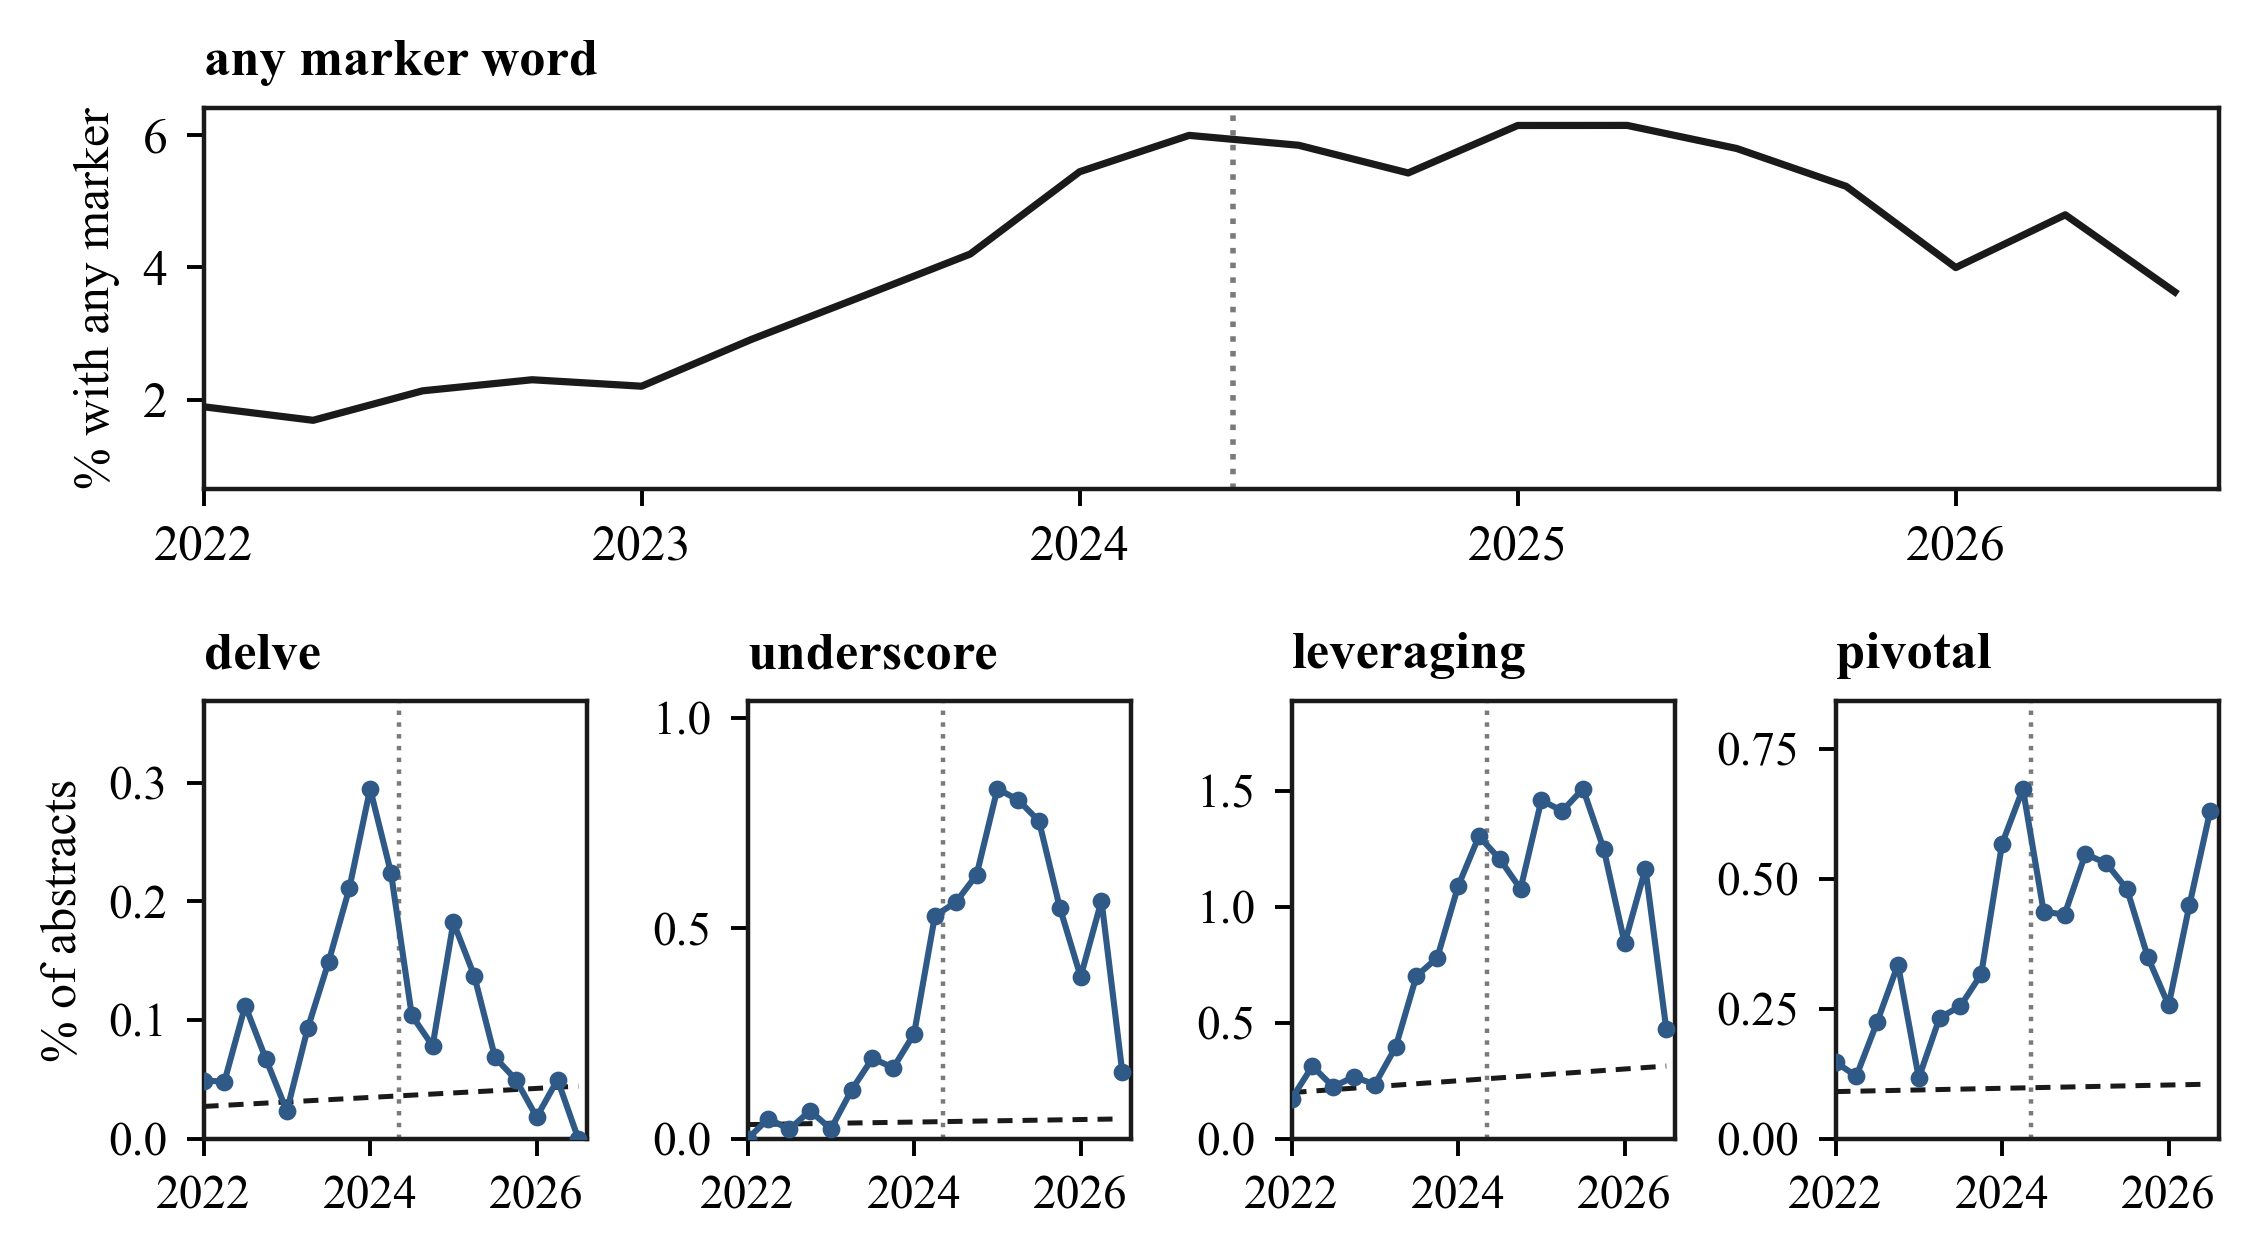
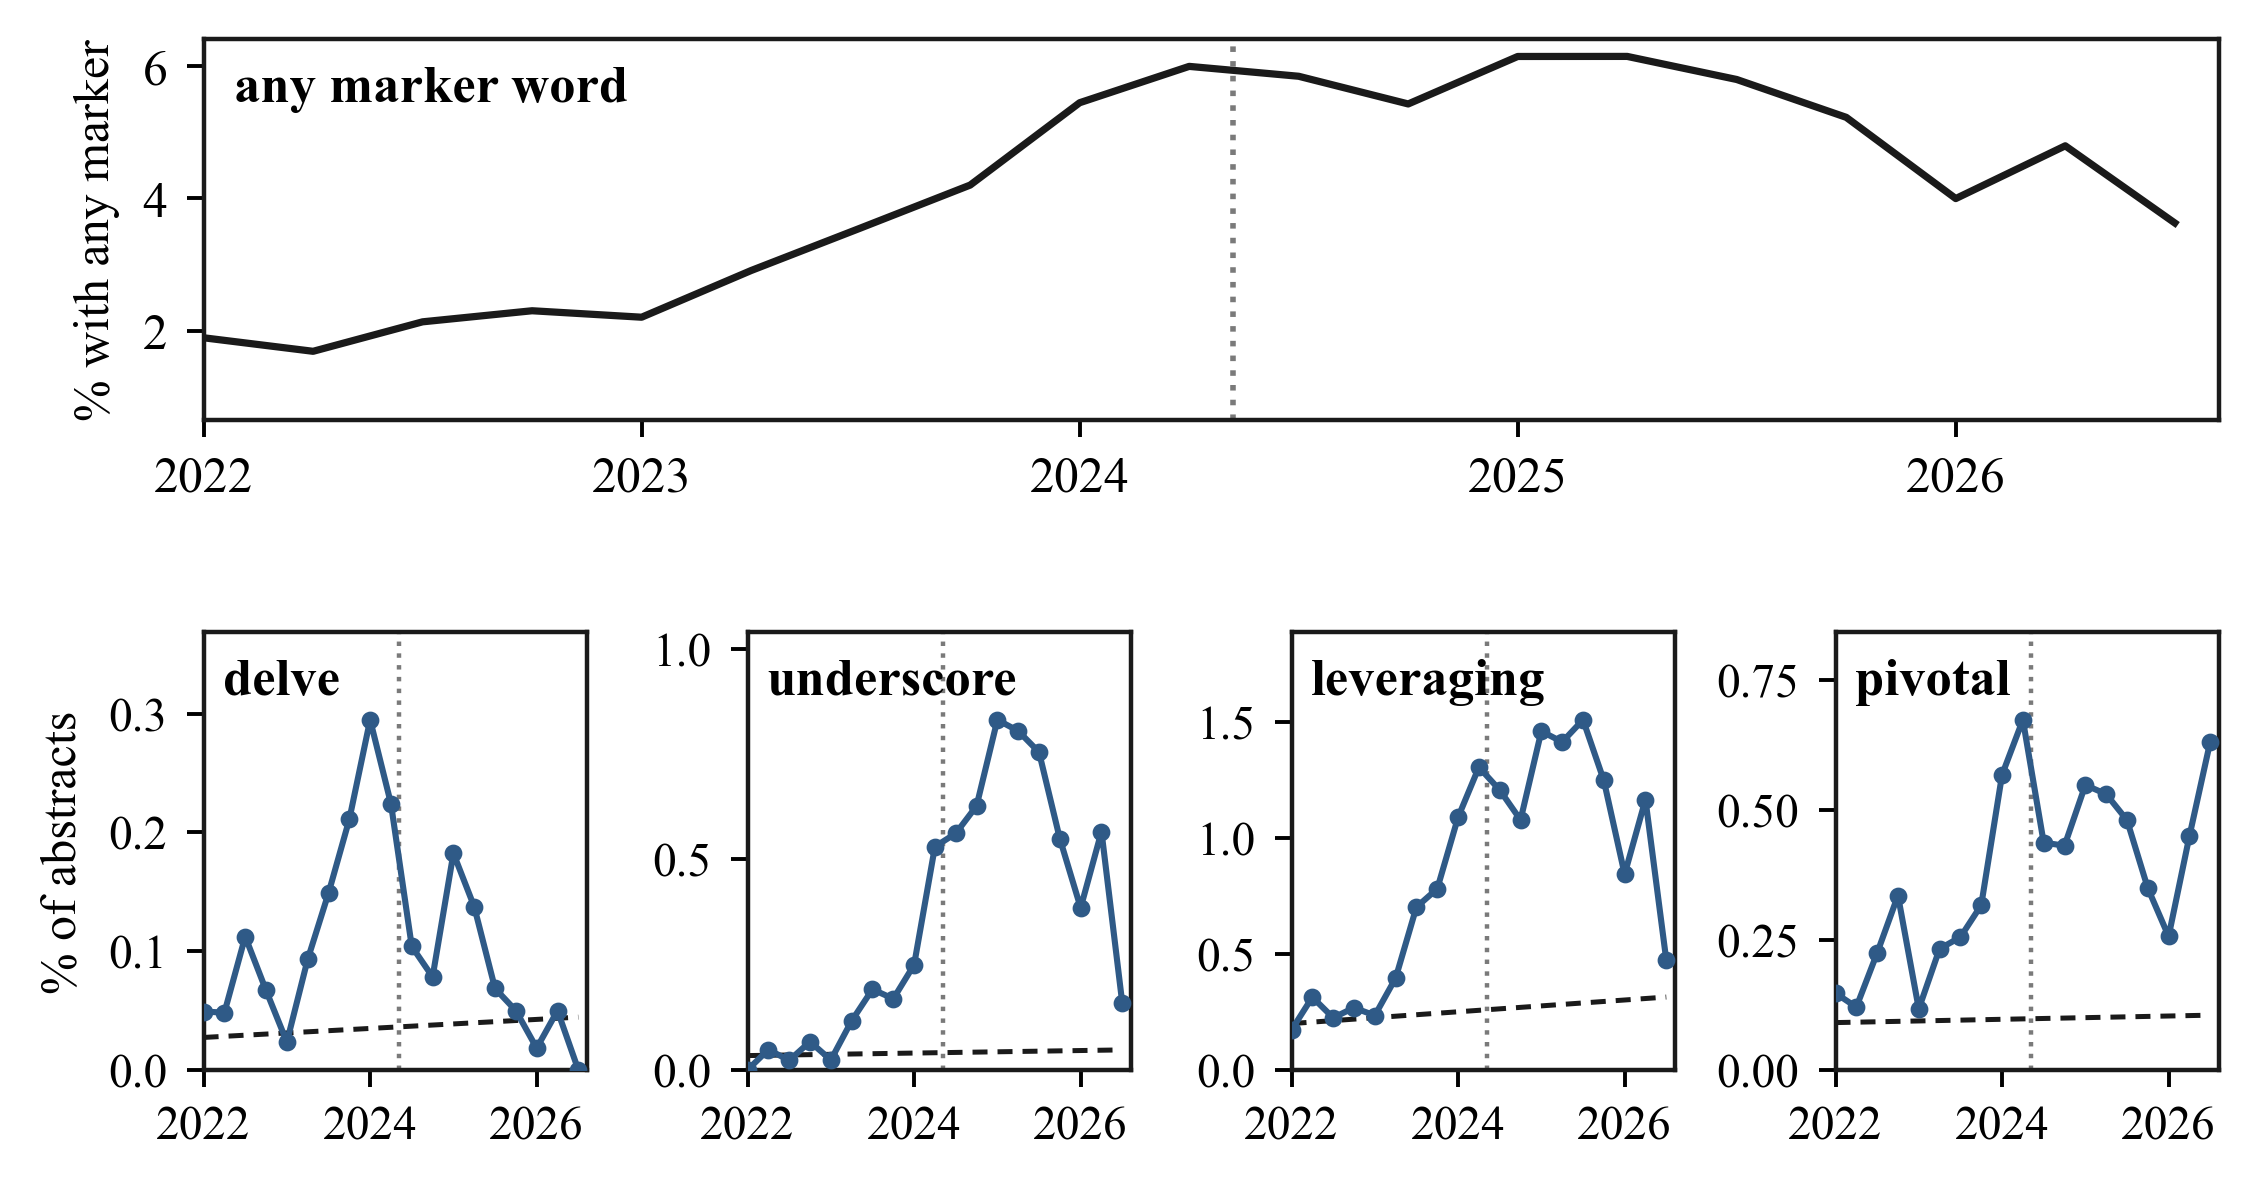
Move panel titles inside the axes (no titles above any figure)
The aggregate and per-word labels in Figure 2 and the (a)/(b) panel labels in
Figure 3 now sit inside the plot area, top-left, clear of the data.

diff --git a/src/plots.py b/src/plots.py
@@ -87,7 +87,8 @@ def fig2_delve_collapse():
     top.axvline(2024.35, color=C["grey"], ls=":", lw=1.0)
     top.set_xlim(2022, 2026.6)
     top.set_ylabel("% with any marker", fontsize=9)
-    top.set_title("any marker word", loc="left", fontsize=9.5)
+    top.text(0.015, 0.93, "any marker word", transform=top.transAxes,
+             va="top", ha="left", fontsize=9.5, fontweight="bold")
     top.tick_params(labelsize=9)
 
     for i, w in enumerate(words):
@@ -103,7 +104,8 @@ def fig2_delve_collapse():
         ax.axvline(2024.35, color=C["grey"], ls=":", lw=0.8)
         ax.set_xlim(2022, 2026.6)
         ax.set_ylim(0, max(d.freq.max()*100*1.25, 0.1))
-        ax.set_title(w, loc="left", fontsize=9.5)
+        ax.text(0.05, 0.94, w, transform=ax.transAxes, va="top", ha="left",
+                fontsize=9.5, fontweight="bold")
         ax.tick_params(labelsize=8.5)
         ax.set_xticks([2022, 2024, 2026])
         if i == 0:
@@ -156,7 +158,8 @@ def fig3_discovery():
     axA.set_xlim(3e-3, 30); axA.set_ylim(0.25, 40)
     axA.set_xlabel("frequency in 2024-2026 (% of abstracts)")
     axA.set_ylabel("frequency ratio, 2024-2026 / 2018-2021")
-    axA.set_title("(a) single words", loc="left", fontsize=9.5)
+    axA.text(0.025, 0.97, "(a) single words", transform=axA.transAxes,
+             va="top", ha="left", fontsize=9.5, fontweight="bold", zorder=7)
     show_a = ["nircam", "miri", "nirspec", "jwst", "desi", "xrism", "ixpe",
               "interpretable", "leveraging", "aligns", "offering", "pivotal",
               "intricate", "highlighting", "delve"]
@@ -178,7 +181,8 @@ def fig3_discovery():
     axB.axhline(5, color=C["grey"], ls="--", lw=0.7, zorder=2)
     axB.set_xlim(3e-3, 30); axB.set_ylim(0.25, 40)
     axB.set_xlabel("frequency in 2024-2026 (% of abstracts)")
-    axB.set_title("(b) two-word phrases", loc="left", fontsize=9.5)
+    axB.text(0.025, 0.97, "(b) two-word phrases", transform=axB.transAxes,
+             va="top", ha="left", fontsize=9.5, fontweight="bold", zorder=7)
     show_b = ["jwst observations", "the desi", "energy spectroscopic",
               "habitable worlds", "leveraging the", "align with", "offering a",
               "results highlight", "findings indicate"]
